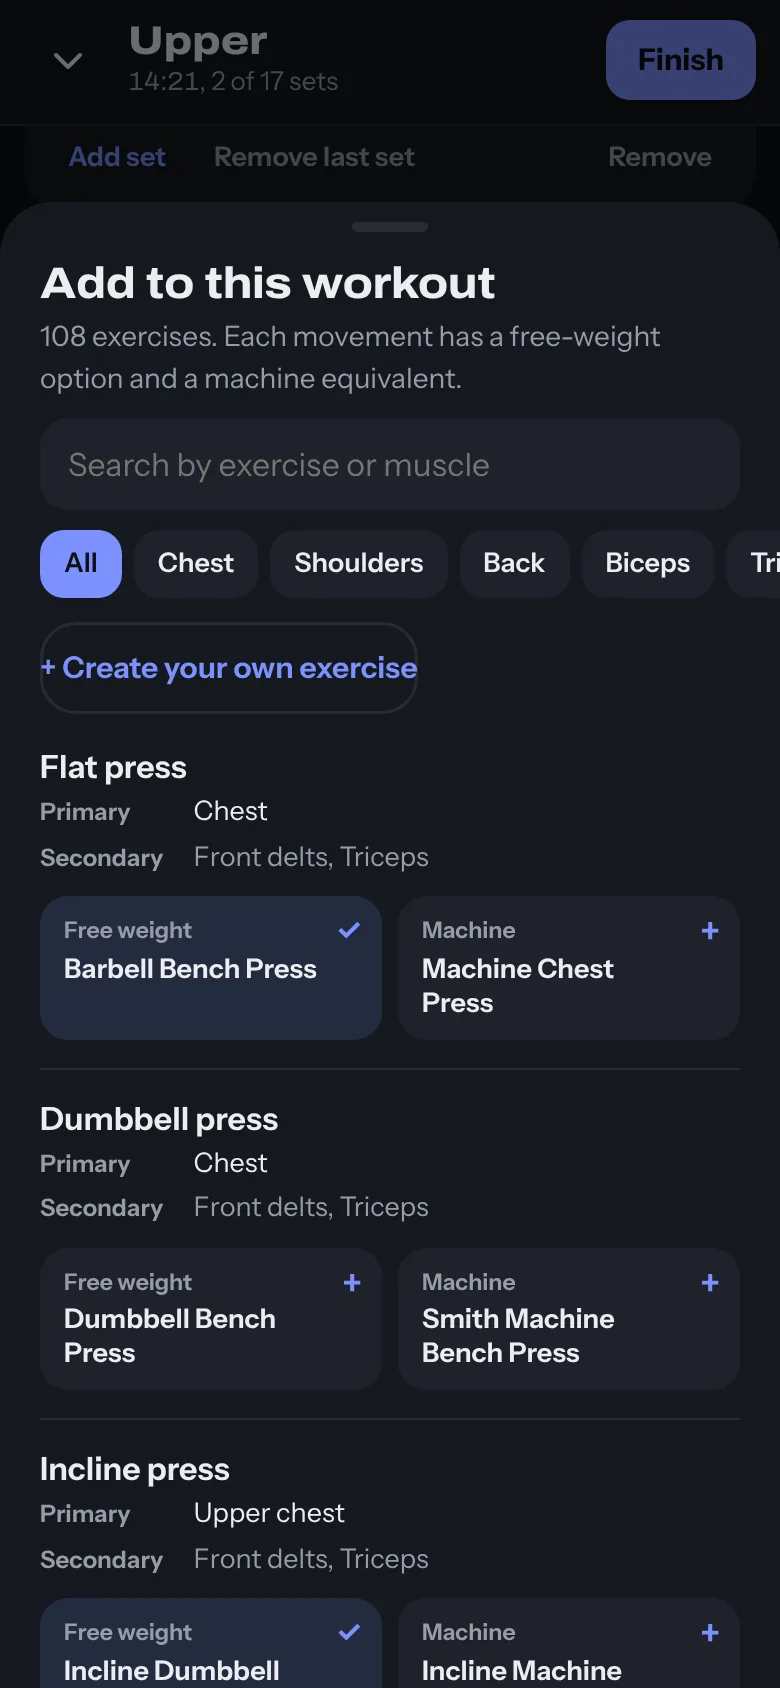
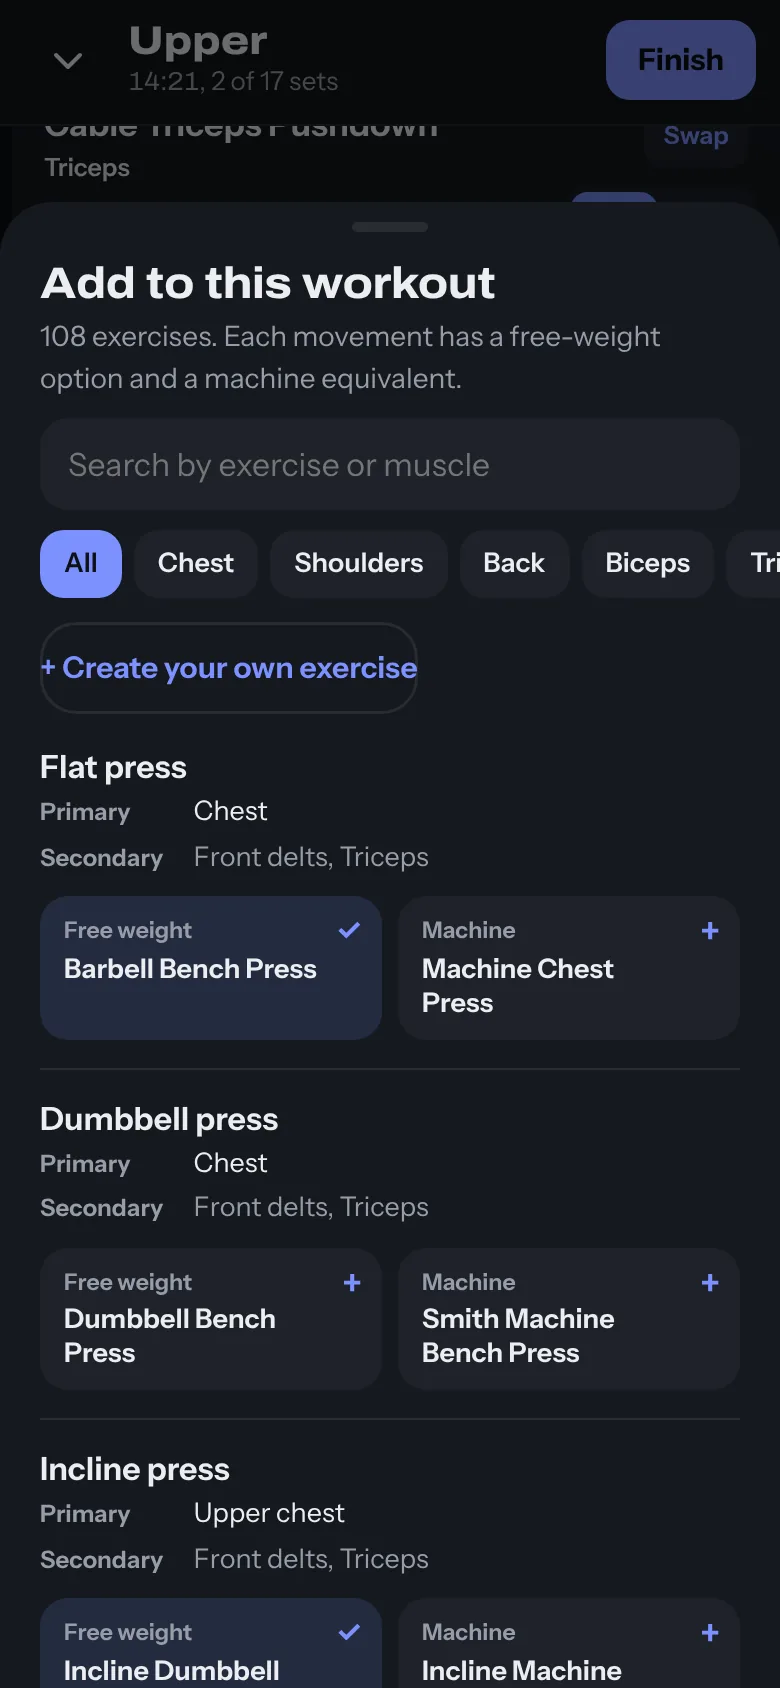
Site: swap, plan import, attachments, per-side and per-exercise units, light/dark; fresh screenshots
Gallery gains Swap mid-workout, Attachments and per-side weights, and Import
your plan (now 4 columns). Programs section mentions importing a plan and the
renamed Train something else. Gym-floor details and FAQ cover the new features;
JSON-LD gets a featureList. All app screenshots recaptured from v15.

Claude-Session: https://claude.ai/code/session_01CLexnbZrSf2QdjWx6nmYuN

diff --git a/index.html b/index.html
@@ -23,7 +23,7 @@
 <link rel="apple-touch-icon" href="app/icons/apple-touch-icon.png">
 <link rel="preload" href="assets/fonts/archivo.woff2" as="font" type="font/woff2" crossorigin>
 <script>document.documentElement.classList.add('js')</script>
-<script type="application/ld+json">{"@context":"https://schema.org","@type":"WebApplication","name":"Rival Workouts","url":"https://op4122.github.io/Rival/app/","description":"A workout tracker that shows last session's numbers beside every set, adjusts targets to how you feel, and plans your week.","applicationCategory":"HealthApplication","operatingSystem":"Any modern browser","browserRequirements":"Requires JavaScript","offers":{"@type":"Offer","price":"0","priceCurrency":"USD"},"author":{"@type":"Person","name":"Ahmed Al Mahrouqi"}}</script>
+<script type="application/ld+json">{"@context":"https://schema.org","@type":"WebApplication","name":"Rival Workouts","url":"https://op4122.github.io/Rival/app/","description":"A workout tracker that shows last session's numbers beside every set, adjusts targets to how you feel, and plans your week.","featureList":["Last session beside every set","Readiness check-in","Weekly sets per muscle body map","Programs for 2 to 6 days or your own split","Import a plan","Swap exercises mid-workout","kg or lb per exercise","Per-side dumbbell weights","Cable attachments","Plate calculator","Light and dark mode","Works offline"],"applicationCategory":"HealthApplication","operatingSystem":"Any modern browser","browserRequirements":"Requires JavaScript","offers":{"@type":"Offer","price":"0","priceCurrency":"USD"},"author":{"@type":"Person","name":"Ahmed Al Mahrouqi"}}</script>
 <style>
 @font-face{font-family:"Archivo";font-style:normal;font-display:swap;font-weight:100 900;font-stretch:62% 125%;src:url(assets/fonts/archivo.woff2) format("woff2-variations"),url(assets/fonts/archivo.woff2) format("woff2")}
 @font-face{font-family:"Instrument Sans";font-style:normal;font-display:swap;font-weight:400 700;src:url(assets/fonts/instrument-sans.woff2) format("woff2-variations"),url(assets/fonts/instrument-sans.woff2) format("woff2")}
@@ -120,9 +120,9 @@ button{font:inherit;color:inherit;background:none;border:0;padding:0;cursor:poin
 @supports (width:1cqw){.shot.duo .phone{--pw:min(calc((100cqw - 14px) / 2),232px)}}
 .shot.duo .phone + .phone{margin-top:44px}
 /* gallery of smaller screens */
-.gal{display:grid;grid-template-columns:repeat(5,minmax(0,1fr));gap:24px;margin-top:36px}
+.gal{display:grid;grid-template-columns:repeat(4,minmax(0,1fr));gap:44px 24px;margin-top:36px}
 .gal figure{margin:0;display:flex;flex-direction:column;align-items:center;gap:16px}
-.gal .phone{--pw:180px}
+.gal .phone{--pw:200px}
 .gal figcaption{text-align:center;font-size:14.5px;color:var(--muted);max-width:24ch}
 .gal figcaption b{display:block;color:var(--ink);font-weight:650;font-size:15.5px;margin-bottom:2px}
 
@@ -345,7 +345,8 @@ button{font:inherit;color:inherit;background:none;border:0;padding:0;cursor:poin
         <p>Say how many days a week you can train, from two to six, and pick a ready-made program. Each one shows how many sets every muscle gets in a week, so you can check it reaches the 10 to 20 target before you commit.</p>
         <p><strong>Nothing fits? Build your own.</strong> Choose one to seven days, give each a focus from thirteen options (Push, Pull, Legs, Chest &amp; Back, Arms, even an empty day), rename them, and reorder or duplicate any day later.</p>
         <p>Switching keeps your history and ghosts, and an Undo is one tap away.</p>
-        <p><strong>Back after a break?</strong> Tap Something else on Today to train just a push day, or plan a short week like push and pull. Your program pauses, then picks up exactly where it left off.</p>
+        <p><strong>Already have a plan?</strong> Paste it from Notes, a spreadsheet or a chat, or pick a text file. Rival matches each line, such as “Bench press 3x6-8”, to its library, and you check every match before anything changes.</p>
+        <p><strong>Back after a break?</strong> Tap Train something else on Today to do just a push day, or plan a short week like push and pull. Your program pauses, then picks up exactly where it left off.</p>
       </div>
       <div class="shot duo rv">
         <figure class="phone"><picture><source srcset="assets/shots/programs-dark.webp" media="(prefers-color-scheme: dark)"><img src="assets/shots/programs-light.webp" alt="Program picker set to 3 days a week: Full Body marked Recommended, then Upper / Lower / Full Body and Push / Pull / Legs" width="780" height="1688" loading="lazy" decoding="async"></picture></figure>
@@ -380,6 +381,9 @@ button{font:inherit;color:inherit;background:none;border:0;padding:0;cursor:poin
   <section class="sec" id="tools">
     <h2 class="h2" style="max-width:18ch">Everything else, one tap away</h2>
     <div class="gal" tabindex="0" aria-label="More screens from the app">
+      <figure><div class="phone"><picture><source srcset="assets/shots/swap-dark.webp" media="(prefers-color-scheme: dark)"><img src="assets/shots/swap-light.webp" alt="Swap sheet for Barbell Bench Press: Machine Chest Press marked Same movement at the top, then other chest exercises, then every other option" width="780" height="1688" loading="lazy" decoding="async"></picture></div><figcaption><b>Swap mid-workout</b>Machine taken? The closest match for the same muscles comes first.</figcaption></figure>
+      <figure><div class="phone"><picture><source srcset="assets/shots/attach-dark.webp" media="(prefers-color-scheme: dark)"><img src="assets/shots/attach-light.webp" alt="Workout cards: Lat Pulldown with attachment chips for Wide bar and Close-grip V-bar, and Incline Dumbbell Press tagged Weight per side with a kg each column" width="780" height="1688" loading="lazy" decoding="async"></picture></div><figcaption><b>Attachments and per-side weights</b>Rope or V-bar each keep their own numbers. Dumbbells log per hand.</figcaption></figure>
+      <figure><div class="phone"><picture><source srcset="assets/shots/import-dark.webp" media="(prefers-color-scheme: dark)"><img src="assets/shots/import-light.webp" alt="Check your plan screen: lines like Bench press 3x6-8 matched to Barbell Bench Press, grouped into Push, Pull and Legs days" width="780" height="1688" loading="lazy" decoding="async"></picture></div><figcaption><b>Import your plan</b>Paste the plan you already follow. Rival matches every line.</figcaption></figure>
       <figure><div class="phone"><picture><source srcset="assets/shots/plates-dark.webp" media="(prefers-color-scheme: dark)"><img src="assets/shots/plates-light.webp" alt="Plate calculator showing 82.5 kg as a 20, a 10 and a 1.25 per side on a 20 kg bar" width="780" height="1688" loading="lazy" decoding="async"></picture></div><figcaption><b>Plate calculator</b>Exactly what goes on each side of the bar. The biggest plate is 20 kg.</figcaption></figure>
       <figure><div class="phone"><picture><source srcset="assets/shots/library-dark.webp" media="(prefers-color-scheme: dark)"><img src="assets/shots/library-light.webp" alt="Exercise library with search and muscle filters; each movement offers a free-weight and a machine option" width="780" height="1688" loading="lazy" decoding="async"></picture></div><figcaption><b>108 exercises</b>Each with a free-weight and a machine option.</figcaption></figure>
       <figure><div class="phone"><picture><source srcset="assets/shots/custom-dark.webp" media="(prefers-color-scheme: dark)"><img src="assets/shots/custom-light.webp" alt="Create exercise form: Landmine Press with upper chest as the primary muscle" width="780" height="1688" loading="lazy" decoding="async"></picture></div><figcaption><b>Your own exercises</b>Name it, pick its muscles, done.</figcaption></figure>
@@ -394,7 +398,10 @@ button{font:inherit;color:inherit;background:none;border:0;padding:0;cursor:poin
       <div><h3>Warm-ups built in</h3><p>The first heavy lift for each muscle gets ramp-up sets. From 60 kg up that's the empty bar, then around 50%, 70% and 85% of your working weight. Lighter lifts get one or two shorter ramps.</p></div>
       <div><h3>Big targets where it counts</h3><p>The set inputs and the log button are 44 points tall, sized for chalky thumbs between sets.</p></div>
       <div><h3>Estimated 1-rep max</h3><p>Each main lift gets a trend line, using <span class="math"><var>e</var><sub>1RM</sub> = <var>w</var> × (1 + <span class="frac"><span><var>r</var></span><span>30</span></span>)</span>, so a heavy triple and a long set compare fairly.</p></div>
-      <div><h3>kg or lb</h3><p>Switch any time, even per exercise: dumbbells in lb, plates in kg.</p></div>
+      <div><h3>kg or lb, per exercise</h3><p>Each lift has its own kg | lb switch, so dumbbells can be in lb while the barbell stays in kg.</p></div>
+      <div><h3>Per-side weights</h3><p>Dumbbell lifts log the weight in each hand, marked “kg each”, so 2 × 32 kg is entered as 32.</p></div>
+      <div><h3>Attachments that don't mix</h3><p>A rope pushdown and a straight-bar pushdown keep separate weights and ghosts. Rival remembers which one you used.</p></div>
+      <div><h3>Light or dark</h3><p>Follow your phone, or pick Light or Dark in Settings.</p></div>
       <div><h3>Works offline</h3><p>Install it to your home screen and it opens with no signal, in the basement gym or anywhere else.</p></div>
       <div><h3>Yours to keep</h3><p>No account, and nothing is uploaded. Your workouts live on your phone, and Export backup saves them to a file whenever you like.</p></div>
     </div>
@@ -429,7 +436,9 @@ button{font:inherit;color:inherit;background:none;border:0;padding:0;cursor:poin
       <details><summary>Is Rival really free?</summary><p>Yes. There is no account, no ads and nothing to buy today.</p></details>
       <details><summary>Where are my workouts stored?</summary><p>On your phone only, in the browser's storage. Rival has no server for your workouts, so nobody else can see them.</p><p>The flip side is that clearing your browser data or losing the phone clears them too, so tap Export backup on the Plan tab now and then. On iPhone, installing Rival to your Home Screen also keeps Safari from tidying away storage for sites you haven't opened in a while.</p></details>
       <details><summary>How do I move to a new phone?</summary><p>On the old phone, open the Plan tab and tap Export backup to save a file. On the new phone, open Rival, go to Plan, tap Import backup and choose that file. Your history, ghosts and plan come across.</p></details>
-      <details><summary>Can I skip my program for a day or a week?</summary><p>Yes. On Today, tap Something else. Pick a focus such as Push, Pull or Legs for just today, or line up a few sessions for the next seven days. Your program doesn't move while you do, so the day you were due is still next when you come back.</p></details>
+      <details><summary>Can I skip my program for a day or a week?</summary><p>Yes. On Today, tap Train something else. Pick a focus such as Push, Pull or Legs for just today, or line up a few sessions for the next seven days. Your program doesn't move while you do, so the day you were due is still next when you come back.</p></details>
+      <details><summary>Can I use the plan I already follow?</summary><p>Yes. On the Plan tab, tap Import a plan and paste it, or pick a .txt or .csv file. Lines like “Lat pulldown 3x8-10” are matched to Rival's exercises, and you can fix or leave out anything it didn't recognise. Your history stays, and you can undo right after.</p></details>
+      <details><summary>What if the machine I need is taken?</summary><p>Tap Swap on that exercise. Rival lists exercises for the same muscles first, starting with the free-weight or machine version of the same movement, then everything else. Sets you already logged stay where they are.</p></details>
       <details><summary>Do I have to do the readiness check-in?</summary><p>No. Skip it and targets stay as planned. Answering takes three taps, and Rival shows exactly how each target changed.</p></details>
       <details><summary>Does it work without signal?</summary><p>Yes. After the first time you open it, Rival saves itself on your phone, so a basement gym with no reception is fine.</p></details>
       <details><summary>What are the sample workouts I see at first?</summary><p>A first run shows a week of sample sessions so every screen has something in it. Clear them with one tap before your first real workout, or keep them while you explore.</p></details>
